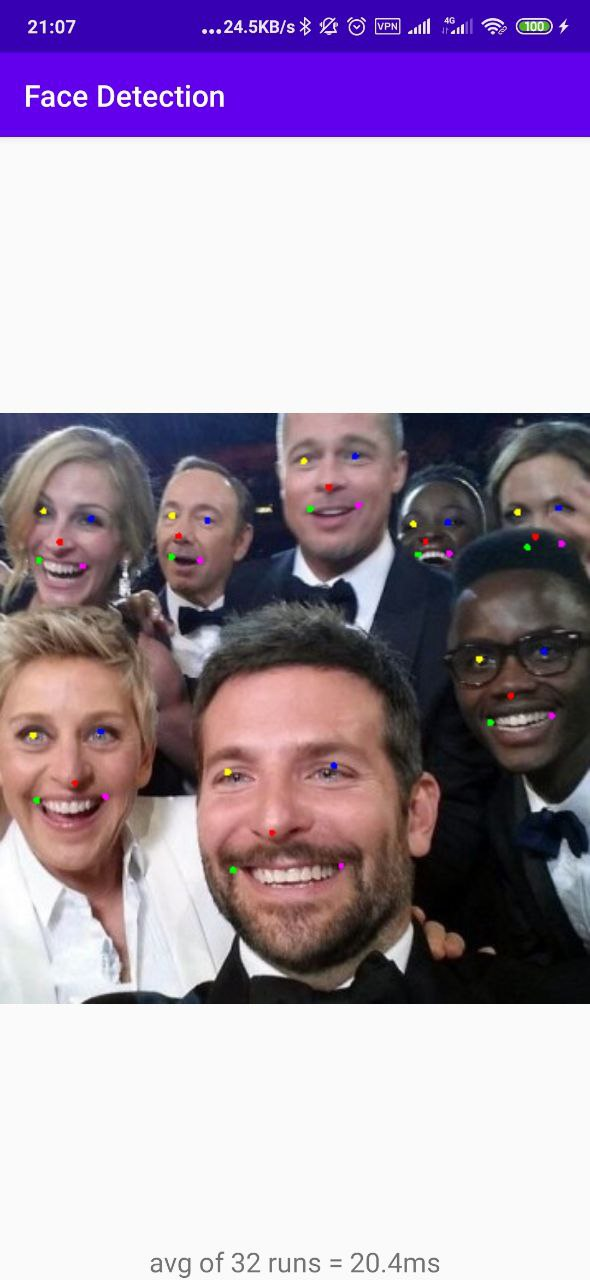
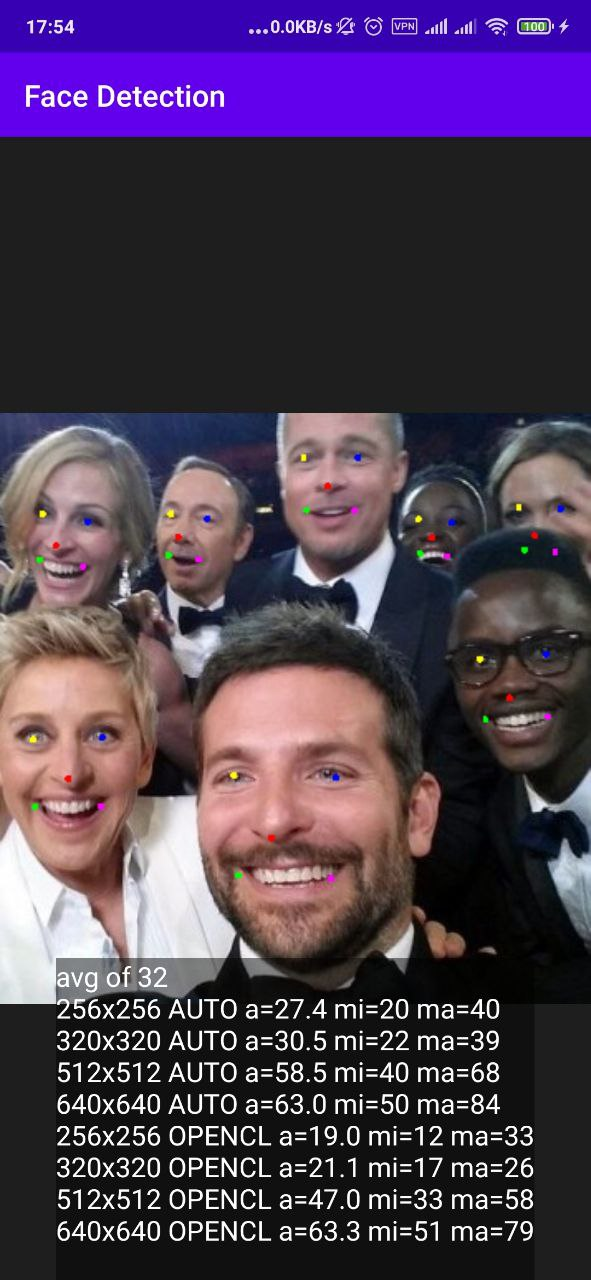
different sizes, AUTO and OPENCL devices

diff --git a/app/src/main/java/ru/gordinmitya/facedetection/MainActivity.kt b/app/src/main/java/ru/gordinmitya/facedetection/MainActivity.kt
@@ -4,6 +4,7 @@ import android.annotation.SuppressLint
 import android.graphics.*
 import android.os.Bundle
 import androidx.appcompat.app.AppCompatActivity
+import com.taobao.android.mnn.MNNForwardType
 import kotlinx.android.synthetic.main.activity_main.*
 
 class MainActivity : AppCompatActivity() {
@@ -15,34 +16,61 @@ class MainActivity : AppCompatActivity() {
         doit()
     }
 
-    @SuppressLint("SetTextI18n")
-    fun doit() = Thread {
-        val detector = MNNFaceDetector(this, "face.mnn")
+    private fun measure(count: Int, size: Int, device: MNNForwardType): Pair<Bitmap, LongArray> {
+        val detector = MNNFaceDetector(this, "face.mnn", size, device)
         detector.prepare()
 
         var bitmap = assets.open("celebrities.jpg").use {
             BitmapFactory.decodeStream(it)
         }
-        val count = 32
-        var sum = 0L
+        val timing = LongArray(count)
         for (i in 0 until count) {
             val start = System.currentTimeMillis()
             detector.predict(bitmap)
-            sum += System.currentTimeMillis() - start
+            timing[i] = System.currentTimeMillis() - start
         }
-        val avg = 1.0 * sum / count
         val faces = detector.predict(bitmap)
         bitmap = bitmap.copy(Bitmap.Config.ARGB_8888, true)
         val canvas = Canvas(bitmap)
         faces.forEach { face ->
             drawFace(canvas, face)
         }
-        image_face.post {
-            image_face.setImageBitmap(bitmap)
-            text_time.text = "avg of $count runs = ${String.format("%.1f", avg)}ms"
-        }
 
         detector.release()
+        return bitmap to timing
+    }
+
+    @SuppressLint("SetTextI18n")
+    fun doit() = Thread {
+
+        val count = 32
+        val configs = listOf(
+            256 to MNNForwardType.FORWARD_AUTO,
+            320 to MNNForwardType.FORWARD_AUTO,
+            512 to MNNForwardType.FORWARD_AUTO,
+            640 to MNNForwardType.FORWARD_AUTO,
+
+            256 to MNNForwardType.FORWARD_OPENCL,
+            320 to MNNForwardType.FORWARD_OPENCL,
+            512 to MNNForwardType.FORWARD_OPENCL,
+            640 to MNNForwardType.FORWARD_OPENCL
+        )
+
+        var string = "avg of $count\n"
+        text_time.text = string
+
+        for (config in configs) {
+            val (size, device) = config
+            val (bitmap, timing) = measure(count, size, device)
+            image_face.post {
+                image_face.setImageBitmap(bitmap)
+
+                string += "${size}x${size} ${device.name.drop(8)}" +
+                        " a=${String.format("%.1f", timing.average())}" +
+                        " mi=${timing.min()} ma=${timing.max()}\n"
+                text_time.text = string
+            }
+        }
     }.start()
 
     private fun drawFace(canvas: Canvas, face: Face) {

diff --git a/app/src/main/java/ru/gordinmitya/facedetection/MNNFaceDetector.kt b/app/src/main/java/ru/gordinmitya/facedetection/MNNFaceDetector.kt
@@ -10,6 +10,7 @@ import com.taobao.android.mnn.MNNNetInstance
 class MNNFaceDetector(
     val context: Context,
     val fileName: String,
+    val size: Int = 320,
     val forwardType: MNNForwardType = MNNForwardType.FORWARD_AUTO
 ) {
 
@@ -27,7 +28,10 @@ class MNNFaceDetector(
         }
         session = net!!.createSession(config)
         inputTensor = session.getInput(null)
+        inputTensor.reshape(intArrayOf(1, 3, size, size))
+        session.reshape()
         inputSize = inputTensor.dimensions
+        require(inputSize[2] == inputSize[3] && inputSize[3] == size)
     }
 
     fun predict(input: Bitmap): Array<Face> {

diff --git a/README.md b/README.md
@@ -2,16 +2,26 @@
 
 Used framework – [MNN by Alibaba](https://github.com/alibaba/MNN);
 
-Model was taken from [biubug6/Face-Detector-1MB-with-landmark (RFB)](github.com/biubug6/Face-Detector-1MB-with-landmark);
+Model was taken from [biubug6/Face-Detector-1MB-with-landmark (RFB)](https://github.com/biubug6/Face-Detector-1MB-with-landmark);
 
 Then converted with [built docker image MNNConvert](https://github.com/gordinmitya/docker_that_framework/tree/master/mnn);
+
+```bash
+cd ~/Face-Detector-1MB-with-landmark
+python3 convert_to_onnx.py
+python3 -m onnxsim faceDetector.onnx sim.onnx
+
+cd ~/mnn/build
+./MNNConvert --bizCode MNN --MNNModel face.mnn -f ONNX --modelFile ~/Face-Detector-1MB-with-landmark/sim.onnx
+cp ~/face.mnn ~/face_detection/app/src/main/assets/face.mnn
+```
 
 Face bounding box + landmarks: eyes, nose, mouth.
 
 ## Example
 ![example](./img/screenshot.jpg)
 
-Execution time ~20ms for image 320x320 on Snapdragon 855 (including pre and postprocessing).
+Timings on Snapdragon 855 (including pre and postprocessing).
 
 ## Notes
 
